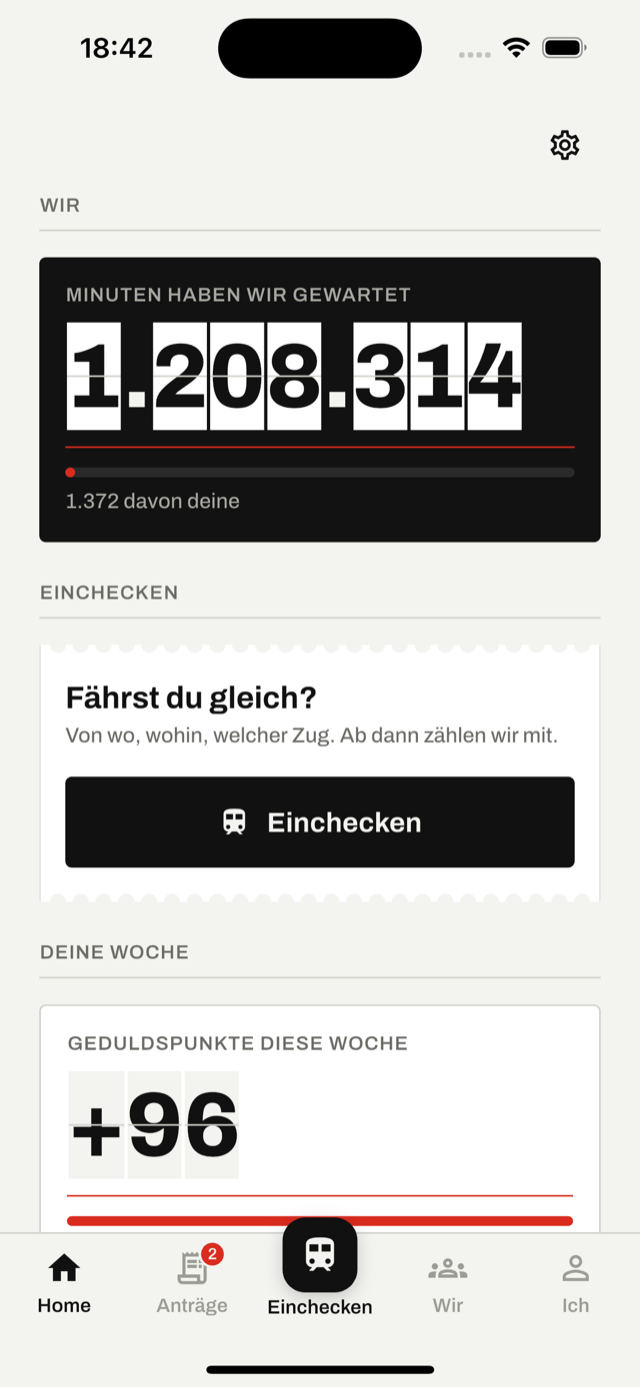
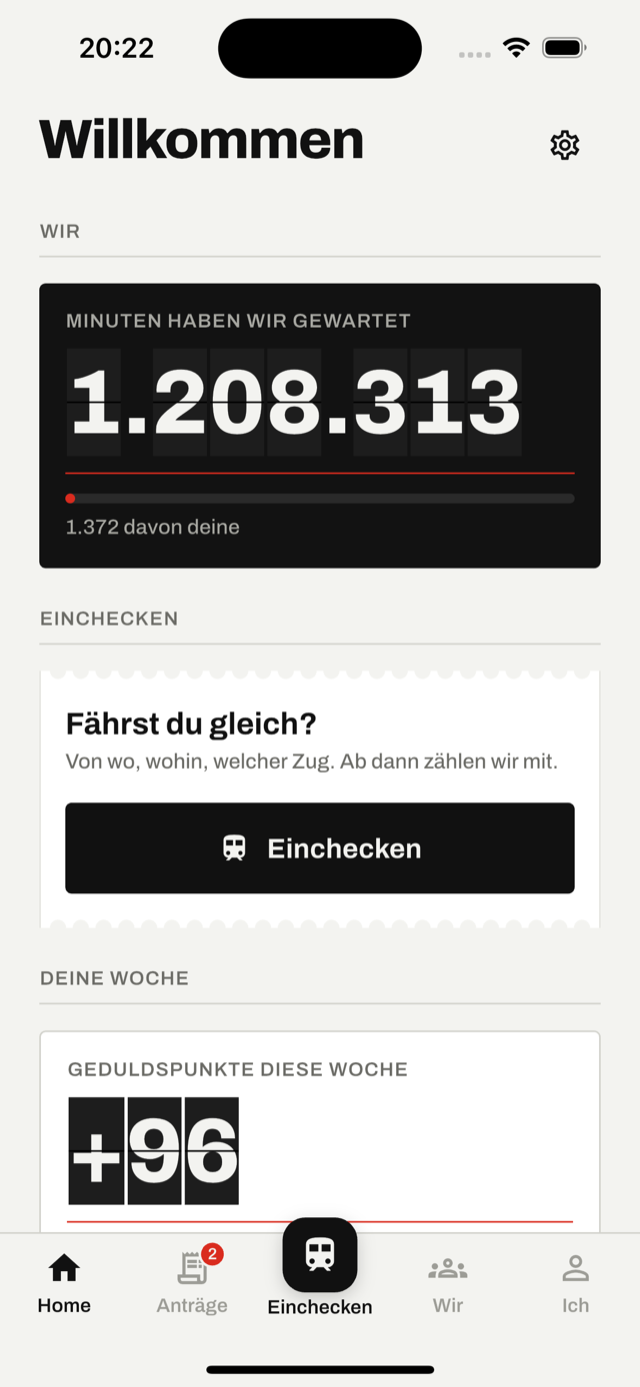
Willkommen, dunkle Klappen, und der richtige Navigator (#10, #12, #14)
**#10** Falsch herum letzte Runde: die Klappe eines echten Bretts ist dunkel und
die Schrift darauf weiß, und das ändert sich nicht, wenn das Brett in einem
weißen Kasten hängt. Klappe #1D1D1D, Schrift Papier, Scharnier Schwarz — in
beiden Karten; unterschiedlich ist nur der Kasten darum. Die Gruppentrenner
hängen zwischen den Klappen und nehmen deshalb die Farbe des Kastens.

**#12** Die Korrektur der Korrektur. Der `Builder` der letzten Runde umschloss
genau das Widget, das der Shell-Navigator ist — der eingefangene Kontext lag also
über ihm, und das Sheet landete weiter auf dem Root-Navigator. Jetzt hat die
ShellRoute einen navigatorKey, und das Quadrat öffnet mit dem Kontext seines
Overlays, der unter ihm liegt. Im Screenshot einchecken-von-square steht die
Leiste. Diesmal nachgesehen, statt es anzunehmen.

**#14** Home war der einzige Schirm ohne Namen, nur ein Zahnrad. Jetzt derselbe
TabHeader wie Wir, Ich und Anträge: „Willkommen", Zahnrad rechts, und die
Stellwerk-Zeile als Bildunterschrift — sie ist dort grau statt rot, was ihr unter
einem Titel nichts nimmt.

docs/38, Tour mit einem Schuss vom Quadrat-Weg, Website-Bilder neu.

Claude-Session: https://claude.ai/code/session_01RYsrNSWoztH2z7RxAnxai6

diff --git a/app/lib/router.dart b/app/lib/router.dart
@@ -57,6 +57,13 @@ String initialLocationFor({required bool onboardingDone}) {
   return onboardingDone ? Routes.bahnsteig : Routes.welcome;
 }
 
+/// The Navigator that renders the four tabs, below the bottom bar (issue #12).
+///
+/// A sheet pushed on the root Navigator covers the whole app, bar included; one pushed here sits
+/// in the Scaffold's body and leaves the bar standing. Home's button has always been inside this
+/// Navigator, the square in the bar is outside it, and that was the whole of the difference.
+final shellNavigatorKey = GlobalKey<NavigatorState>();
+
 GoRouter buildRouter(DemoState state, {required String initialLocation}) {
   return GoRouter(
     initialLocation: initialLocation,
@@ -66,6 +73,7 @@ GoRouter buildRouter(DemoState state, {required String initialLocation}) {
 
       // The four tabs live in a shell with the bottom navigation; the Einchecken square in the middle is not a tab.
       ShellRoute(
+        navigatorKey: shellNavigatorKey,
         builder: (context, routerState, child) => _TabShell(location: routerState.uri.toString(), child: child),
         routes: [
           GoRoute(path: Routes.bahnsteig, builder: (c, s) => bahnsteigBuilder(c, s)),
@@ -102,10 +110,6 @@ class _TabShellState extends State<_TabShell> {
   RideMonitor? _monitor;
   NearbyMonitor? _nearby;
   String? _consumedLocation;
-
-  /// See the `Builder` in [build]: the tab's own context, so the Einchecken square opens its
-  /// sheet exactly where Home's button opens it (issue #12).
-  BuildContext? _bodyContext;
 
   @override
   void initState() {
@@ -205,14 +209,7 @@ class _TabShellState extends State<_TabShell> {
             return Stack(
               children: [
                 Scaffold(
-                  // A context from inside the shell's own Navigator (issue #12). The square in
-                  // the bar sits above that Navigator, so a sheet opened with the bar's context
-                  // goes on the root one and covers the bar; Home's button opens the same sheet
-                  // from inside the tab, where the bar stays visible. One context, one result.
-                  body: Builder(builder: (bodyContext) {
-                    _bodyContext = bodyContext;
-                    return widget.child;
-                  }),
+                  body: widget.child,
                   bottomNavigationBar: Column(
                     mainAxisSize: MainAxisSize.min,
                     children: [
@@ -221,7 +218,12 @@ class _TabShellState extends State<_TabShell> {
                         index: index.clamp(0, 3),
                         onTap: (i) => context.go(_TabShell._tabs[i]),
                         // Under way, the square points at the journey you are on (docs/20 §1).
-                        onCheckin: () => monitor.active ? monitor.openSheet() : startCheckin(_bodyContext ?? context),
+                        // The shell Navigator's overlay: a context *below* that Navigator, so the
+                        // sheet lands in the body and the bar stays visible (issue #12). Wrapping
+                        // the shell's child in a Builder does not do it — that context is above.
+                        onCheckin: () => monitor.active
+                            ? monitor.openSheet()
+                            : startCheckin(shellNavigatorKey.currentState?.overlay?.context ?? context),
                         checkinEnabled: !monitor.active,
                         badges: {1: session.unreadMails},
                       ),

diff --git a/app/lib/widgets/kit.dart b/app/lib/widgets/kit.dart
@@ -405,11 +405,13 @@ class _VTafelZahlState extends State<VTafelZahl> with SingleTickerProviderStateM
   @override
   Widget build(BuildContext context) {
     final anzeige = widget.look == VTafelLook.anzeige;
-    // Ink on a white flap, whichever board it hangs in (issue #10) — but the group separators
-    // hang between the flaps, on the board itself, so they take the board's colour or they are
-    // black on black.
-    final style = (widget.style ?? VText.number).copyWith(fontFeatures: const [FontFeature.tabularFigures()]);
-    final bareStyle = anzeige ? style.copyWith(color: VColors.paper) : style;
+    // White on a dark flap, in both boxes (issue #10) — but the group separators hang *between*
+    // the flaps, on whatever the flaps hang in, so they take that colour instead.
+    final style = (widget.style ?? VText.number).copyWith(
+      fontFeatures: const [FontFeature.tabularFigures()],
+      color: widget.flaps ? VColors.paper : null,
+    );
+    final bareStyle = style.copyWith(color: anzeige ? VColors.paper : VColors.ink);
     // Measured, not guessed: a flap has to be exactly as wide and as tall as the digit it turns
     // over, or the row shifts sideways while it runs. Tabular figures make one measurement do
     // for all ten.
@@ -1376,23 +1378,24 @@ class _Card extends StatelessWidget {
   final VTafelLook look;
   final Widget child;
 
-  /// The flaps are paper in both lights (issue #10): white cards on the black board, and paper
-  /// cards on the elevated paper. What changes is what surrounds them, and the seam.
+  /// A flap is dark with white figures on it, in both boxes (issue #10). That is the flap of a
+  /// real board; what changes is what it hangs in — the black board, or a white card with a
+  /// little board on it.
+  static const _flap = Color(0xFF1D1D1D);
+  static const _seam = Color(0xFF000000);
+
   @override
-  Widget build(BuildContext context) {
-    final anzeige = look == VTafelLook.anzeige;
-    return Container(
-      margin: const EdgeInsets.symmetric(horizontal: 1),
-      height: height,
-      width: width,
-      color: anzeige ? VColors.paperElevated : VColors.paper,
-      child: Stack(
-        alignment: Alignment.center,
-        children: [
-          child,
-          Positioned(top: height / 2 - 0.5, left: 0, right: 0, child: Container(height: 1, color: VColors.rule)),
-        ],
-      ),
-    );
-  }
+  Widget build(BuildContext context) => Container(
+        margin: const EdgeInsets.symmetric(horizontal: 1),
+        height: height,
+        width: width,
+        color: _flap,
+        child: Stack(
+          alignment: Alignment.center,
+          children: [
+            child,
+            Positioned(top: height / 2 - 0.5, left: 0, right: 0, child: Container(height: 1, color: _seam)),
+          ],
+        ),
+      );
 }

diff --git a/app/lib/screens/ride/bahnsteig_screen.dart b/app/lib/screens/ride/bahnsteig_screen.dart
@@ -12,6 +12,7 @@ import '../../state/ride_monitor.dart';
 import '../../theme/tokens.dart';
 import '../../widgets/kit.dart';
 import 'checkin_flow.dart';
+import '../community/community_widgets.dart';
 import 'ride_widgets.dart';
 
 /// Home, second version (docs/16). Six blocks, everything above the fold: the action
@@ -157,26 +158,16 @@ class _BahnsteigScreenState extends State<BahnsteigScreen> {
         child: Column(
           crossAxisAlignment: CrossAxisAlignment.start,
           children: [
-            // Slim header: the Stellwerk caption when a simulated position is active, the small clock.
-            Row(
-              children: [
-                Expanded(
-                  child: _nearby.simulated
-                      ? Text(
-                          'Standort: Stellwerk · ${_nearby.label ?? ''}',
-                          style: VText.caption.copyWith(color: VColors.red),
-                          maxLines: 1,
-                          overflow: TextOverflow.ellipsis,
-                        )
-                      : const SizedBox.shrink(),
-                ),
-                VIconButton(
-                  icon: Icons.settings_outlined,
-                  onTap: () =>
-                      context.push(Routes.einstellungen).then((_) => _load()),
-                ),
-              ],
+            // The same header as the other tabs (issue #14): a title, a quiet line under it, the
+            // settings button. Home had only the button, which made it the one screen without a
+            // name. The Stellwerk line keeps its place as the caption, because that is what it
+            // is — a note about where the app thinks it is.
+            TabHeader(
+              title: 'Willkommen',
+              caption: _nearby.simulated ? 'Standort: Stellwerk · ${_nearby.label ?? ''}' : null,
+              onSettings: () => context.push(Routes.einstellungen).then((_) => _load()),
             ),
+            const VGap.m(),
             if (_error != null) ...[
               const VGap.m(),
               OfflineBanner(stamp: null),

diff --git a/app/integration_test/screenshot_tour_test.dart b/app/integration_test/screenshot_tour_test.dart
@@ -171,6 +171,12 @@ void main() {
     await tester.tap(find.byKey(const Key('einchecken-cta')));
     await wait(tester, 1200);
     await shot('einchecken-von');
+    await dismissSheet(tester);
+    // The same sheet from the square in the bar. It has to look the same, bottom bar and all
+    // (issue #12): the two used to open on different Navigators.
+    await tester.tap(find.byKey(const Key('nav-checkin')));
+    await wait(tester, 1200);
+    await shot('einchecken-von-square');
     await tester.tap(find.byKey(const Key('von-detected')));
     await wait(tester, 1400);
     await shot('einchecken-wohin-sheet');

diff --git a/docs/38-willkommen-und-die-richtige-buehne.md b/docs/38-willkommen-und-die-richtige-buehne.md
@@ -1,0 +1,41 @@
+# 38 — Willkommen, dunkle Klappen, und der richtige Navigator
+
+Decided 12 September 2026 (Johannes, aus den Issues 10, 12 und 14). Zwei davon sind Korrekturen
+an der letzten Runde.
+
+## 1. Die Klappe ist dunkel, der Kasten wechselt (Issue 10)
+
+Letzte Runde waren die Klappen weiß mit Ink-Ziffern. Falsch herum: **die Klappe eines echten
+Bretts ist dunkel und die Schrift darauf weiß** — das ändert sich nicht, wenn das Brett in einem
+weißen Kasten hängt.
+
+Also jetzt: Klappe `#1D1D1D`, Schrift Papier, Scharnier Schwarz — in beiden Karten. Was sich
+unterscheidet, ist nur der Kasten darum: das schwarze Brett auf Wir und Ich, der weiße Kasten auf
+„Deine Woche".
+
+Die Gruppentrenner hängen zwischen den Klappen, also auf dem Kasten: auf dem Brett nehmen sie
+Papier, auf der weißen Karte Ink. Ohne das verschwindet der Punkt in `1.208.317` je nach Karte.
+
+## 2. Der Knopf war nie das Problem, der Navigator war es (Issue 12)
+
+Die Korrektur der Korrektur. Letzte Runde habe ich den Kontext des Shell-Bodys über einen
+`Builder` eingefangen — und damit einen Kontext **über** dem Shell-Navigator, denn der Builder
+umschließt genau das Widget, das dieser Navigator ist. Das Sheet landete weiter auf dem
+Root-Navigator und deckte die Leiste zu.
+
+Jetzt hat die `ShellRoute` einen `navigatorKey`, und das Quadrat öffnet mit
+`shellNavigatorKey.currentState.overlay.context` — dem Overlay des Shell-Navigators, und das
+liegt **unter** ihm. Damit findet `showModalBottomSheet` den Shell-Navigator, das Sheet erscheint
+im Body des Scaffolds, und die Leiste bleibt stehen. Genau wie beim Knopf auf Home, der schon
+immer von innen kam.
+
+## 3. Home heißt Willkommen (Issue 14)
+
+Home war der einzige Schirm ohne Namen: nur ein Zahnrad oben rechts. Jetzt trägt er denselben
+`TabHeader` wie Wir, Ich und Anträge — Titel „Willkommen", das Zahnrad rechts, und die
+Stellwerk-Zeile als Bildunterschrift darunter, wo sie hingehört: eine Notiz darüber, wo die App
+sich gerade wähnt.
+
+(Die Zeile war vorher rot. Als Caption ist sie grau wie jede andere; sie steht jetzt unter einem
+Titel und ist dadurch nicht weniger auffällig. Wenn sie schreien soll, gehört sie in ein eigenes
+Element, nicht in die Kopfzeile.)
